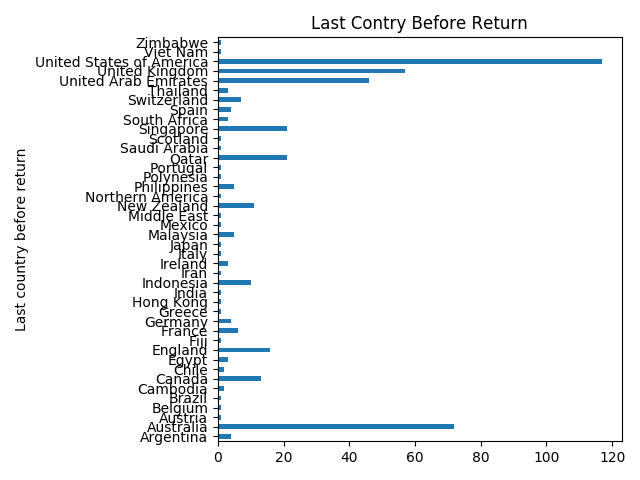
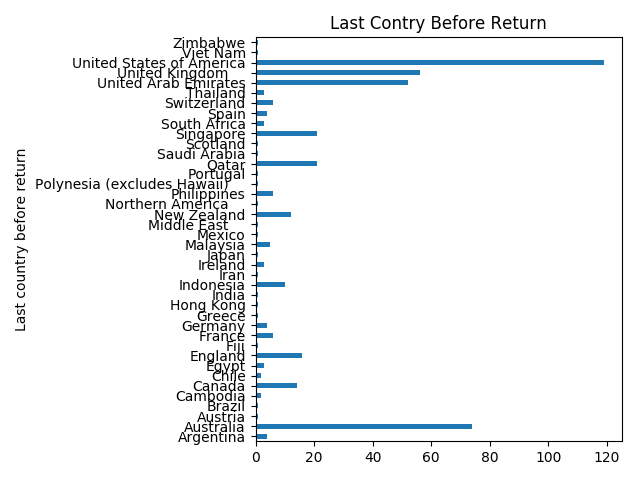
Updated data

diff --git a/NZModel/nz_data.py b/NZModel/nz_data.py
@@ -30,7 +30,8 @@ header=3
 #filename = "./covid-19-case-details-update-3-april-2020.xlsx"
 #filename = "./covid-19-case-details-update-4-april-2020.xlsx"
 #filename = "./covid-casedetialsupdate-5april.xlsx"
-filename = "./covid-casedetails-update-6april.xlsx"
+#filename = "./covid-casedetails-update-6april.xlsx"
+filename = "covid-casedeatails-7april2020.xlsx"
 
 # Confirmed Infection Cases
 data_conf = pd.read_excel(filename, header=header)
